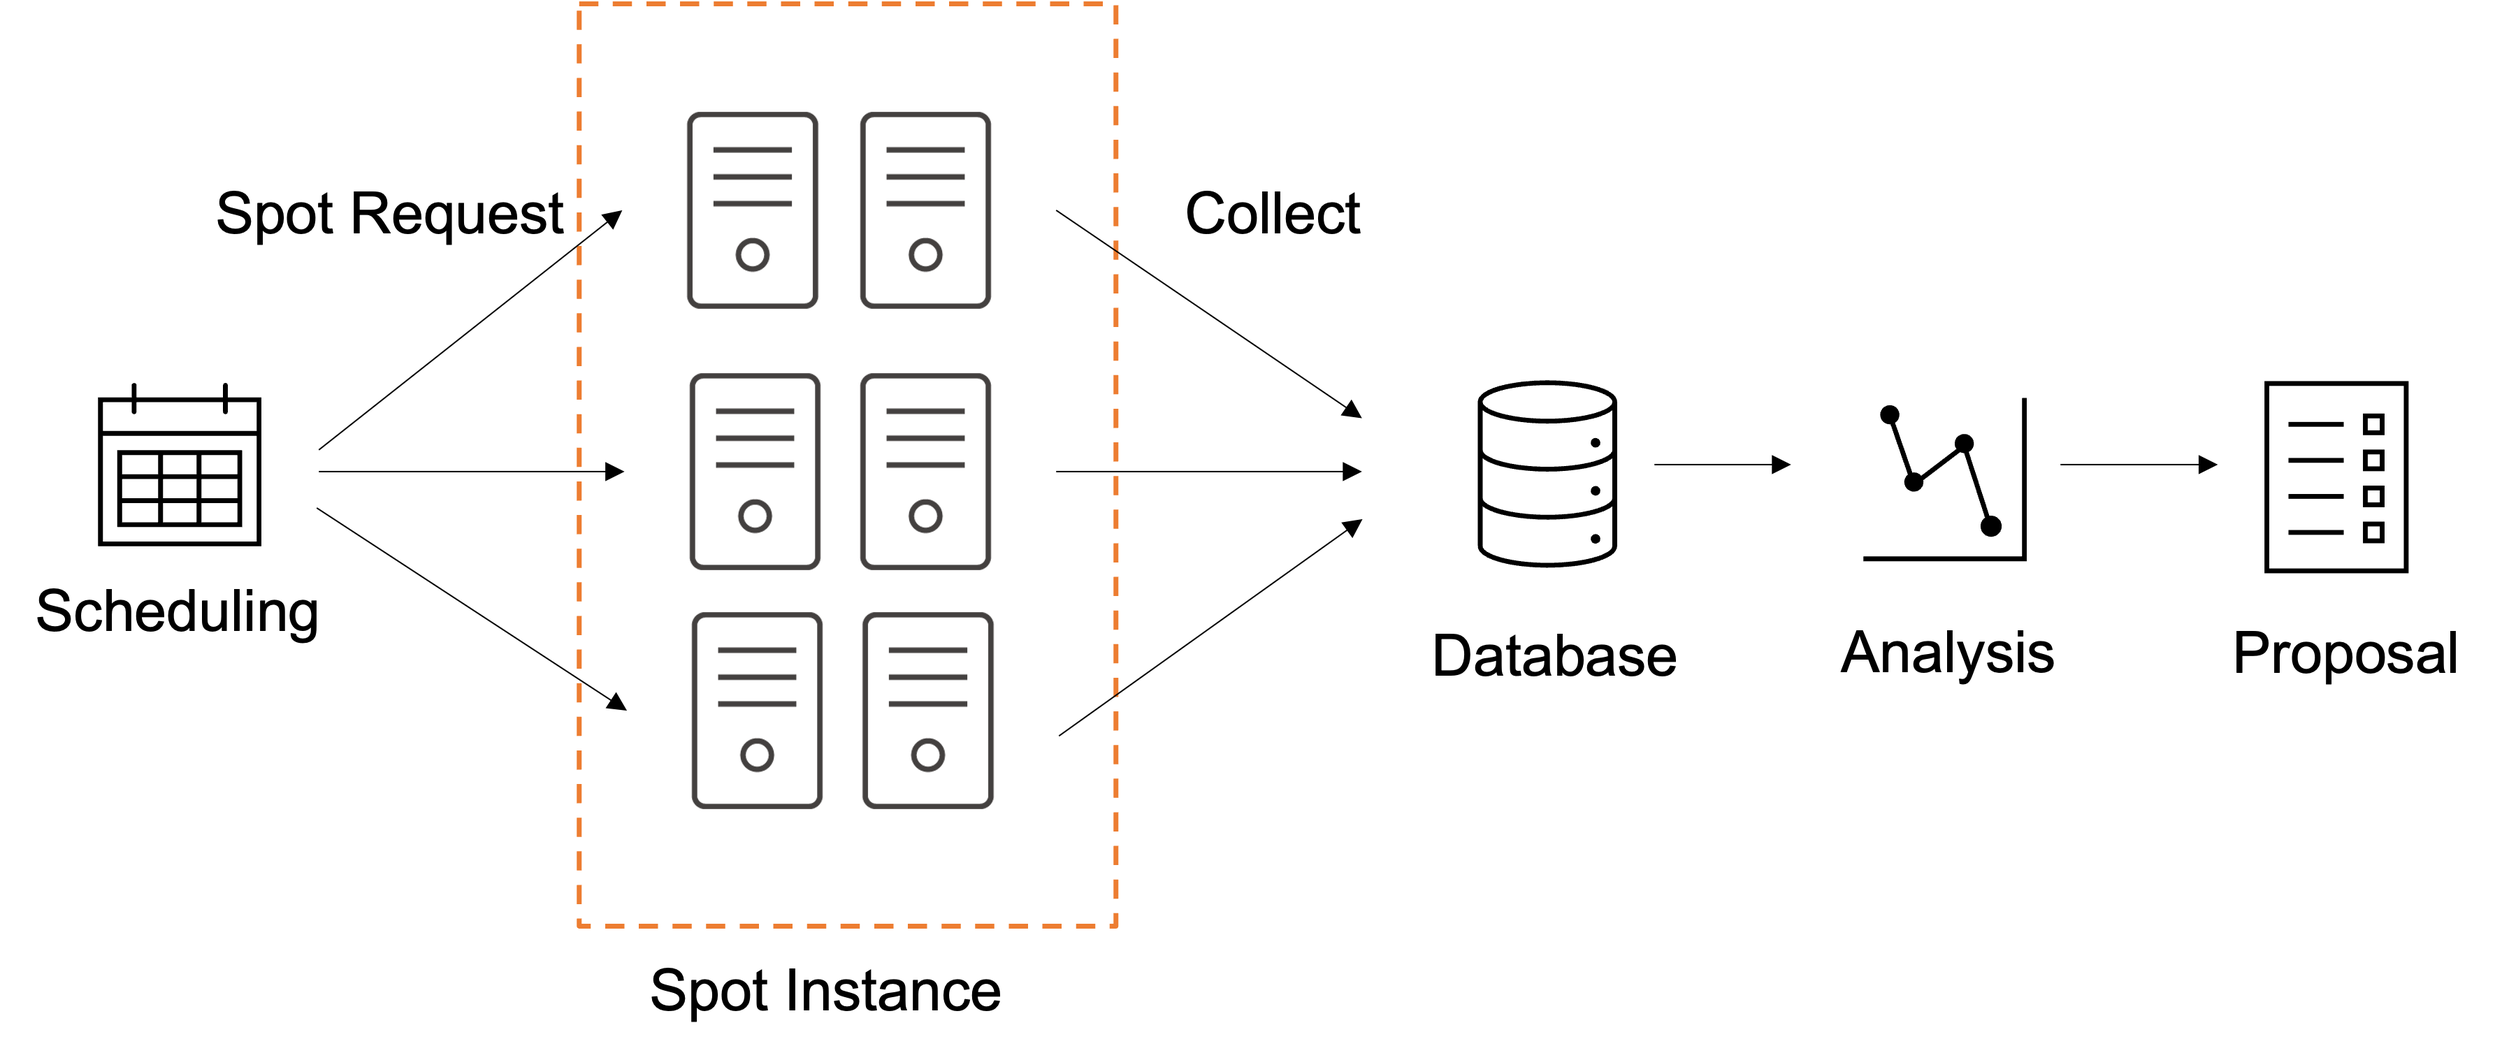
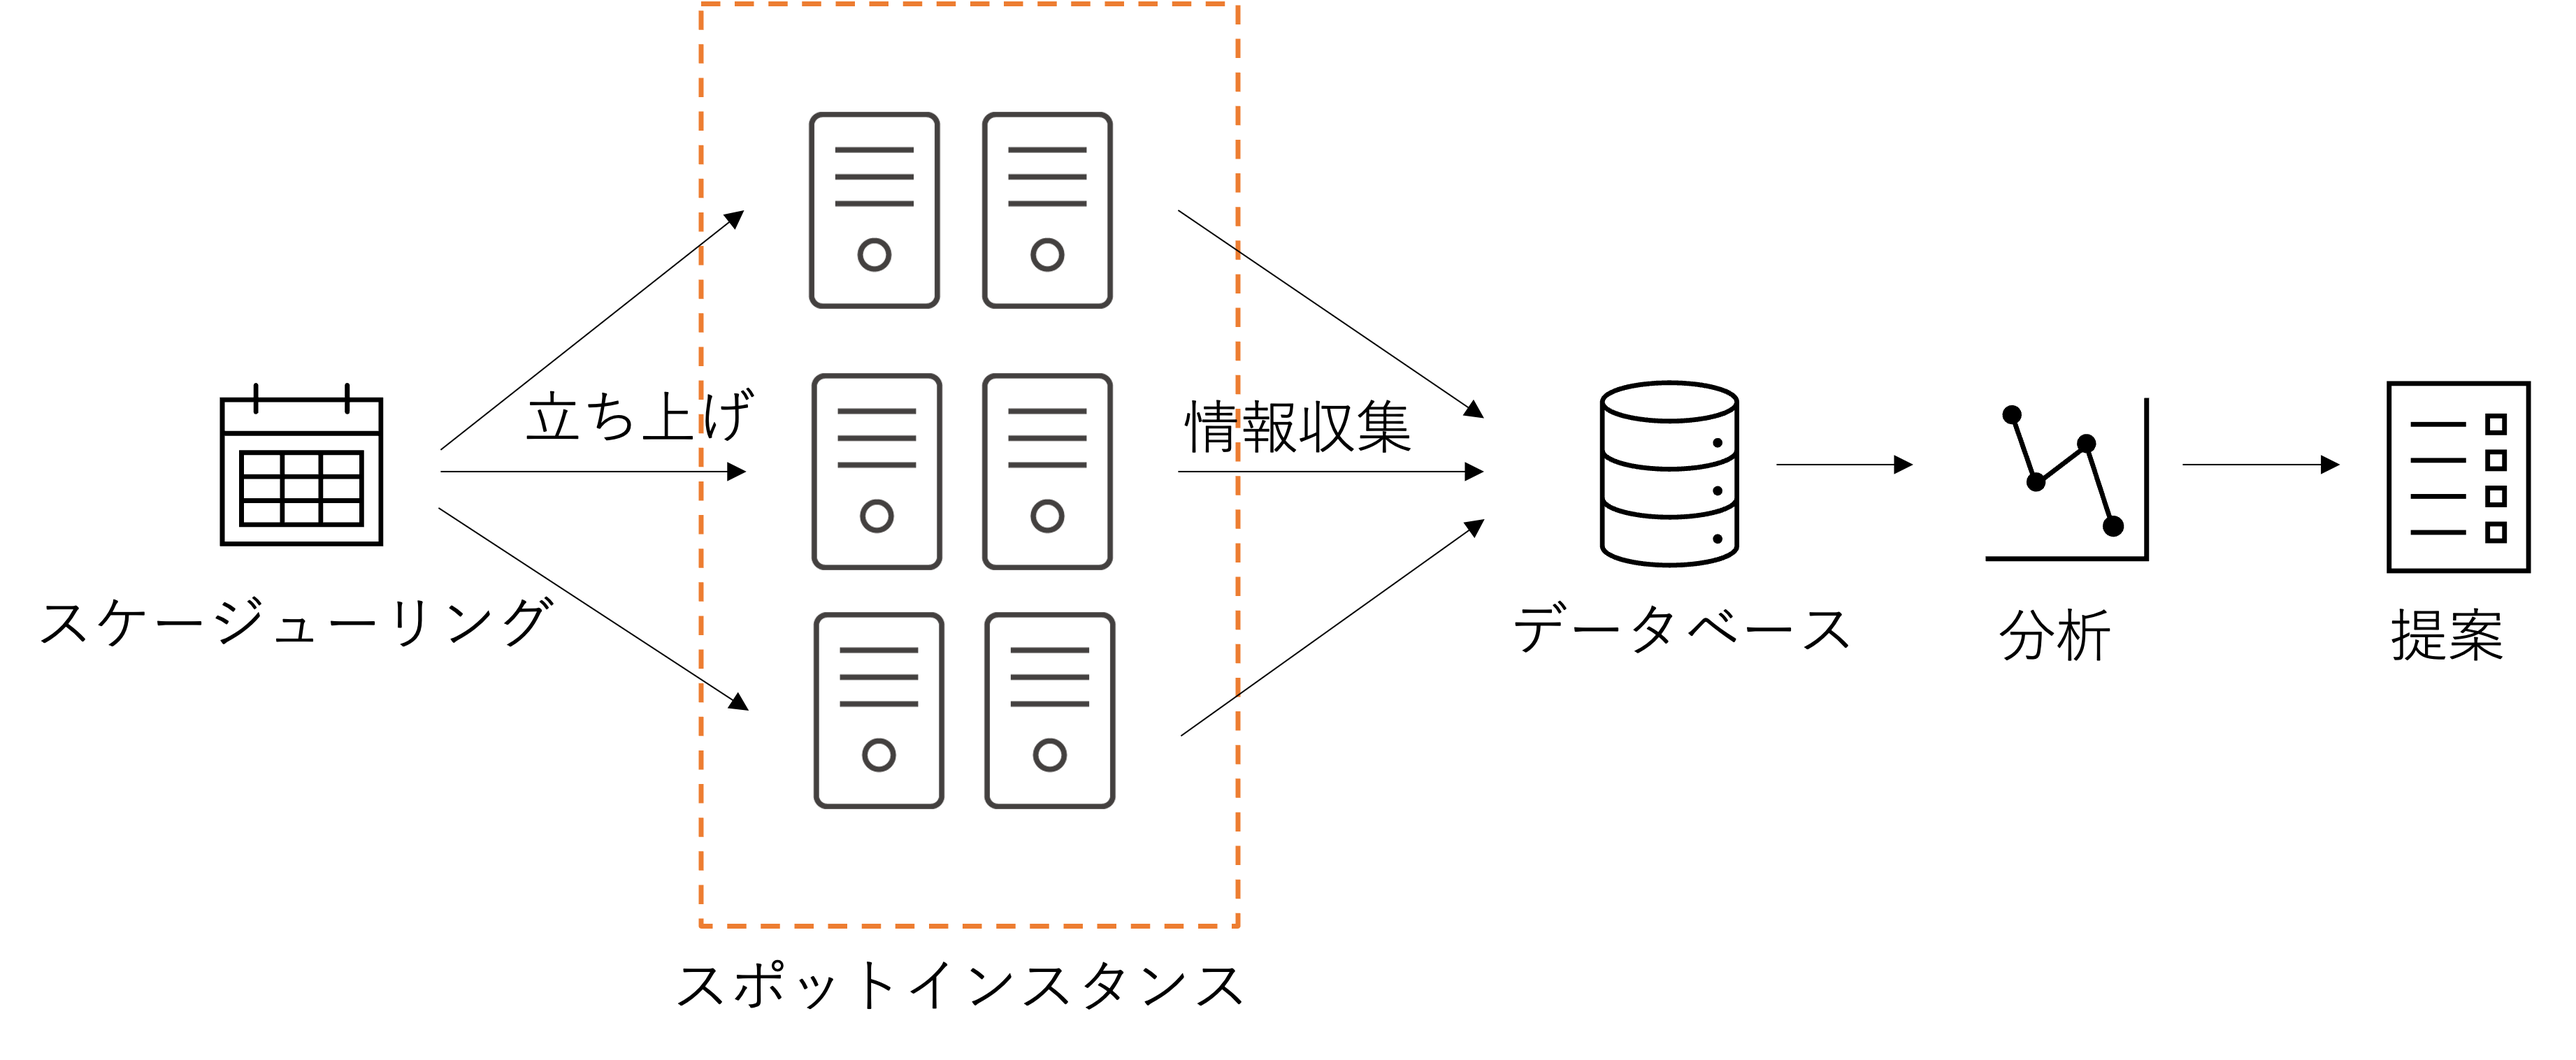
feat:v1完了

diff --git a/comsys/make_figures.py b/comsys/make_figures.py
@@ -1,0 +1,147 @@
+#!/usr/bin/env python3
+"""comsys/main.tex 用の図 (日本語版) を生成する.
+
+figures/figure1_fcomp60_heatmap.png : リージョン×インスタンスタイプ×時間帯別の F_comp(60)
+figures/figure3_hazard.png          : 経過時間別の中断ハザード率
+
+ロジックはリポジトリ直下の figure.py / figure3.py と同じで,
+期間を本測定 (5月+10月の15日合算, 起動リクエスト4,320件) にしている.
+"""
+import glob
+import os
+from zoneinfo import ZoneInfo
+
+import matplotlib.pyplot as plt
+import numpy as np
+import pandas as pd
+import seaborn as sns
+
+HERE = os.path.dirname(os.path.abspath(__file__))
+DATA_DIR = os.path.join(HERE, "..", "data")
+OUT_DIR = os.path.join(HERE, "figures")
+
+# [start, end) UTC. 10月は SPS 記録開始の 08:00 から 192 時間.
+PERIODS_UTC = [
+    ("2026-05-19T00:00:00Z", "2026-05-26T00:00:00Z"),
+    ("2026-10-10T00:00:00Z", "2026-10-18T08:00:00Z"),
+]
+
+plt.rcParams["font.family"] = "Hiragino Sans"
+
+REGION_TZ = {
+    "ap-northeast-1": ZoneInfo("Asia/Tokyo"),
+    "ap-southeast-1": ZoneInfo("Asia/Singapore"),
+    "eu-west-1":      ZoneInfo("Europe/Dublin"),
+    "us-east-1":      ZoneInfo("America/New_York"),
+}
+REGION_LABELS = {
+    "ap-northeast-1": "Tokyo",
+    "ap-southeast-1": "Singapore",
+    "eu-west-1":      "Ireland",
+    "us-east-1":      "N.Virginia",
+}
+PERIOD_ORDER = ["Night", "Morning", "Afternoon", "Evening"]
+REGION_ORDER = ["us-east-1", "eu-west-1", "ap-northeast-1", "ap-southeast-1"]
+INSTANCE_ORDER = ["c6a.large", "g4dn.xlarge", "t3.micro"]
+
+
+def classify_period(h):
+    return ("Night" if h < 6 else "Morning" if h < 12
+            else "Afternoon" if h < 18 else "Evening")
+
+
+def load():
+    """起動に成功したインスタンスのみを返す (F_comp とハザード率の分母は N_succ)."""
+    df = pd.concat([pd.read_csv(f) for f in glob.glob(f"{DATA_DIR}/*.csv")],
+                   ignore_index=True).drop_duplicates(subset="run_id")
+    in_period = np.zeros(len(df), dtype=bool)
+    for start, end in PERIODS_UTC:
+        in_period |= (df["timestamp"] >= start) & (df["timestamp"] < end)
+    df = df[in_period].reset_index(drop=True)
+    print(f"N_req = {len(df)}")
+    ok = df[~df["launch_failed"].astype(bool)].reset_index(drop=True)
+    print(f"N_succ = {len(ok)}")
+    ok["int"] = ok["interrupted"].astype(bool)
+    ok["u"] = ok["uptime_s"].astype(float) / 60.0
+    return ok
+
+
+# ── 図: F_comp(60) ヒートマップ ──────────────────────────────────────────────
+def fig_heatmap(ok, T_minutes=60):
+    df = ok.copy()
+    launch = pd.to_datetime(df["launch_time"], utc=True)
+    df["time_period"] = [classify_period(t.astimezone(REGION_TZ[r]).hour)
+                         for t, r in zip(launch, df["region"])]
+    df["col_label"] = [f"{REGION_LABELS[r]}\n{i}"
+                       for r, i in zip(df["region"], df["instance_type"])]
+    col_order = [f"{REGION_LABELS[r]}\n{i}"
+                 for r in REGION_ORDER for i in INSTANCE_ORDER]
+
+    # 中断されなかった, または T 分以上稼働してから中断されたものを完了とみなす
+    completed = (~df["int"]) | (df["uptime_s"] >= T_minutes * 60)
+    g = completed.groupby([df["time_period"], df["col_label"]]).agg(["sum", "count"])
+    s = g["sum"].unstack().reindex(index=PERIOD_ORDER, columns=col_order)
+    n = g["count"].unstack().reindex(index=PERIOD_ORDER, columns=col_order)
+    f = s / n
+    annot = f.copy().astype(object)
+    for row in PERIOD_ORDER:
+        for col in col_order:
+            annot.loc[row, col] = (f"{f.loc[row, col]:.2f}\n"
+                                   f"({int(s.loc[row, col])}/{int(n.loc[row, col])})")
+
+    fig, ax = plt.subplots(figsize=(14, 4.5))
+    sns.heatmap(f.astype(float), annot=annot, fmt="", cmap="RdYlGn",
+                vmin=0, vmax=1, linewidths=0.5, ax=ax,
+                cbar_kws={"label": rf"$F_\mathrm{{comp}}({T_minutes})$"})
+    ax.set_xlabel("リージョン × インスタンスタイプ", fontsize=10)
+    ax.set_ylabel("時間帯（ローカル時刻）", fontsize=10)
+    ax.set_yticklabels(ax.get_yticklabels(), rotation=0)
+    ax.set_xticklabels(ax.get_xticklabels(), rotation=0, fontsize=8)
+    for i in range(1, len(REGION_ORDER)):
+        ax.axvline(x=i * len(INSTANCE_ORDER), color="black", linewidth=1.5)
+
+    plt.tight_layout()
+    out = os.path.join(OUT_DIR, f"figure1_fcomp{T_minutes}_heatmap.png")
+    plt.savefig(out, dpi=150, bbox_inches="tight")
+    plt.close(fig)
+    print(f"Saved: {out}")
+
+
+# ── 図: ハザード率 ───────────────────────────────────────────────────────────
+def fig_hazard(ok):
+    bins = [(0, 5), (5, 10), (10, 20), (20, 30), (30, 40), (40, 50), (50, 60)]
+    centers, rates, counts = [], [], []
+    for lo, hi in bins:
+        c = int(((ok["int"]) & (ok["u"] >= lo) & (ok["u"] < hi)).sum())
+        risk = int(((~ok["int"]) | (ok["u"] >= lo)).sum())
+        centers.append((lo + hi) / 2)
+        rates.append(c / risk / (hi - lo) * 100)
+        counts.append(c)
+    print(f"interruptions per bin = {counts} (total {sum(counts)})")
+
+    fig, ax = plt.subplots(figsize=(7.5, 3.6))
+    ax.bar(centers, rates, width=[hi-lo-0.8 for lo, hi in bins],
+           color="#6B8EAD", edgecolor="#36506B", linewidth=0.8)
+    mean = np.average(rates, weights=[hi-lo for lo, hi in bins])
+    ax.axhline(mean, color="#C1554E", linestyle="--", linewidth=1.4,
+               label=f"平均 {mean:.3f} %/分")
+    for x, y, c in zip(centers, rates, counts):
+        ax.text(x, y + 0.006, f"n={c}", ha="center", fontsize=7.5, color="#444")
+
+    ax.set_xlabel("起動からの経過時間（分）")
+    ax.set_ylabel("ハザード率（%/分）")
+    ax.set_ylim(0, max(rates) * 1.30)
+    ax.set_xticks([0, 10, 20, 30, 40, 50, 60])
+    ax.legend(frameon=False, fontsize=9)
+    ax.spines[["top", "right"]].set_visible(False)
+    plt.tight_layout()
+    out = os.path.join(OUT_DIR, "figure3_hazard.png")
+    plt.savefig(out, dpi=160, bbox_inches="tight")
+    plt.close(fig)
+    print(f"Saved: {out}")
+
+
+if __name__ == "__main__":
+    ok = load()
+    fig_heatmap(ok)
+    fig_hazard(ok)
